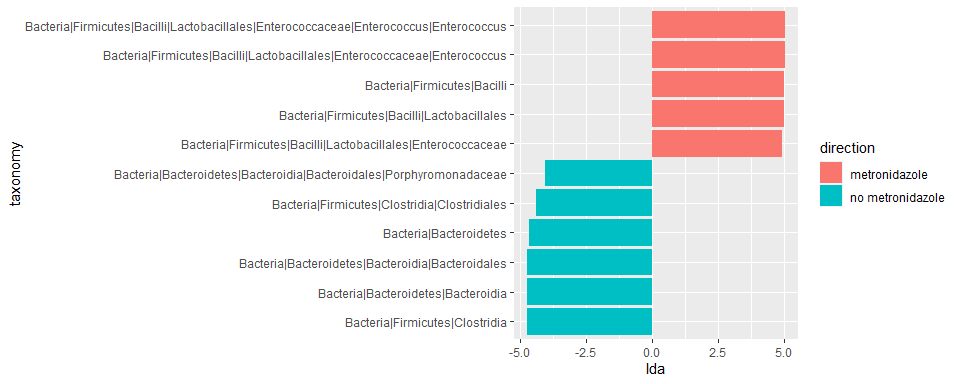
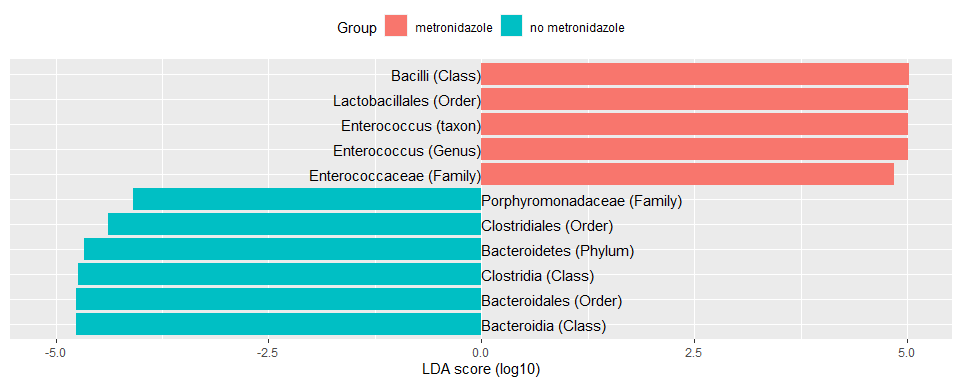
adjustments to markup examples.

diff --git a/examples/features.md b/examples/features.md
@@ -31,74 +31,20 @@ by the above testing steps. From this, an effect size is calculated.
 
 ``` r
 lda <- lda.effect(phy,class="metronidazole",subclass="sex")
-lda
 ```
-
-    ## # A tibble: 1,071 x 8
-    ##   taxonomy                                rank pass    lda direction    kw.pvalue log.max info      
-    ##   <chr>                                  <int> <lgl> <dbl> <chr>            <dbl>   <dbl> <chr>     
-    ## 1 Bacteria                                   1 FALSE    NA metronidazo~   NaN       6     FAIL: KW:~
-    ## 2 Bacteria|Acidobacteria                     2 FALSE    NA no metronid~     0.748   0.398 FAIL: KW:~
-    ## 3 Bacteria|Acidobacteria|Acidobacteria_~     3 FALSE    NA metronidazo~     0.150   0.271 FAIL: KW:~
-    ## 4 Bacteria|Acidobacteria|Acidobacteria_~     4 FALSE    NA metronidazo~     0.150   0.271 FAIL: KW:~
-    ## 5 Bacteria|Acidobacteria|Acidobacteria_~     5 FALSE    NA metronidazo~     0.150   0.271 FAIL: KW:~
-    ## 6 Bacteria|Acidobacteria|Acidobacteria_~     6 FALSE    NA metronidazo~     0.150   0.271 FAIL: KW:~
-    ## 7 Bacteria|Acidobacteria|Acidobacteria_~     7 FALSE    NA metronidazo~     0.150   0.271 FAIL: KW:~
-    ## 8 Bacteria|Acidobacteria|Acidobacteria_~     3 FALSE    NA no metronid~     0.487  -0.103 FAIL: KW:~
-    ## # ... with 1,063 more rows
 
 A common way to display the data is to plot as horizontal bars:
 
 ``` r
-lda.plot <- lda %>% filter(pass) %>%
-  mutate(lda=if_else(as.numeric(factor(direction))==2,-lda,lda)) %>%
-  arrange(lda) %>%
-  mutate(taxonomy=fct_inorder(taxonomy))
-
-ggplot(lda.plot,aes(x=taxonomy,y=lda,fill=direction)) + geom_col() + coord_flip()
+lda.plot(lda)
 ```
 
 ![](features_files/figure-gfm/unnamed-chunk-4-1.png)<!-- -->
 
-You can also view the data in a cladogram.
+You can also view the data in a cladogram, using `lda.clado`.
 
 ``` r
-# Add columns to the LDA table listing separate taxonomic levels (Kingdom, Phylum, ...) in full form. 
-# This will lead to correct labelling of all nodes.
-lvls <- rank_names(phy)
-for (i in 1:length(lvls)) {
-  lda[[lvls[i]]] <- str_split(lda$taxonomy,"\\|") %>% map_chr(~str_c(.[1:i],collapse="|"))
-}
-# Use the newly create columns to create a new phylo object representing the taxonomic hierarchy.
-# Then plot with ggtree.
-lefse.phy <- as.phylo.formula2(as.formula(paste("~",paste(lvls,collapse="/"))),data=lda)
-gt <- ggtree(lefse.phy,layout="circular")
-# This recursive function calculates the range of y values for all descendants of a given node.
-get.children.yrange <- function(node,gd) {
-  hits <- gd$node[gd$parent==node]
-  if (length(hits)==0 | node %in% hits) {
-    return(gd$y[gd$node==node])
-  } else {
-    return(unlist(lapply(hits,get.children.yrange,gd)))
-  }
-}
-gd <- gt$data %>% left_join(lda,by=c("label"="taxonomy")) %>%
-  mutate(y.range=lapply(node,get.children.yrange,cur_data()),
-  ymin=map_dbl(y.range,min)-0.5,
-  ymax=map_dbl(y.range,max)+0.5,
-  xmin=x,
-  xmax=1+2*length(lvls)-x,
-  ymid=(ymin+ymax)/2,
-  xtext=xmax-0.5,
-  angle.label=scales::rescale(ymid,from=range(y),to=c(0,360)),
-  angle.label=if_else(is.between(angle.label,0,180),angle.label-90,angle.label+90),
-  short.label=map_chr(str_split(label,"\\|"),last))
-
-gt + geom_point(data=gd,aes(size=log.max),color="dark gray",fill="gray",shape=21) +
-  geom_rect(data=filter(gd,pass),aes(xmin=xmin,xmax=xmax,ymin=ymin,ymax=ymax,fill=direction),color="dark gray",alpha=0.2) +
-  geom_point(data=filter(gd,pass),aes(fill=direction,size=log.max),shape=21) +
-  geom_text(data=filter(gd,pass),aes(x=xtext,y=ymid,label=short.label,angle=angle.label)) + 
-  theme(legend.position="right")
+lda.clado(lda)
 ```
 
 ![](features_files/figure-gfm/unnamed-chunk-5-1.png)<!-- -->
